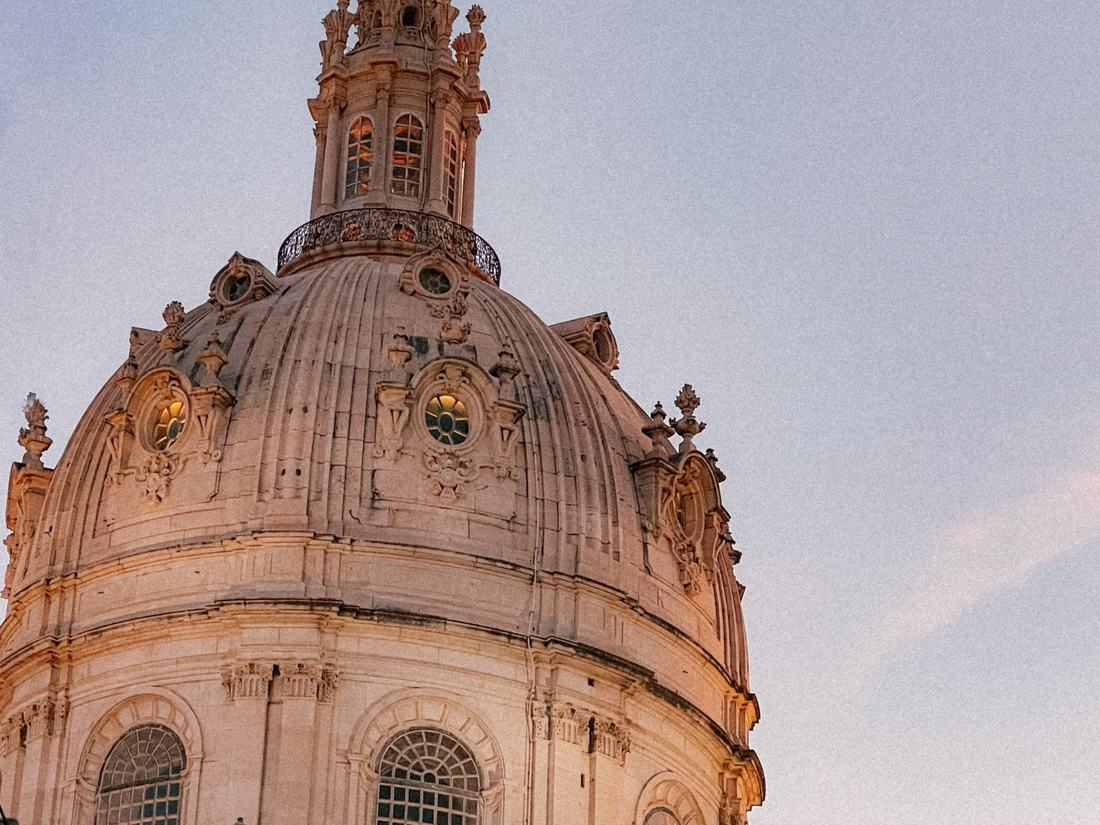
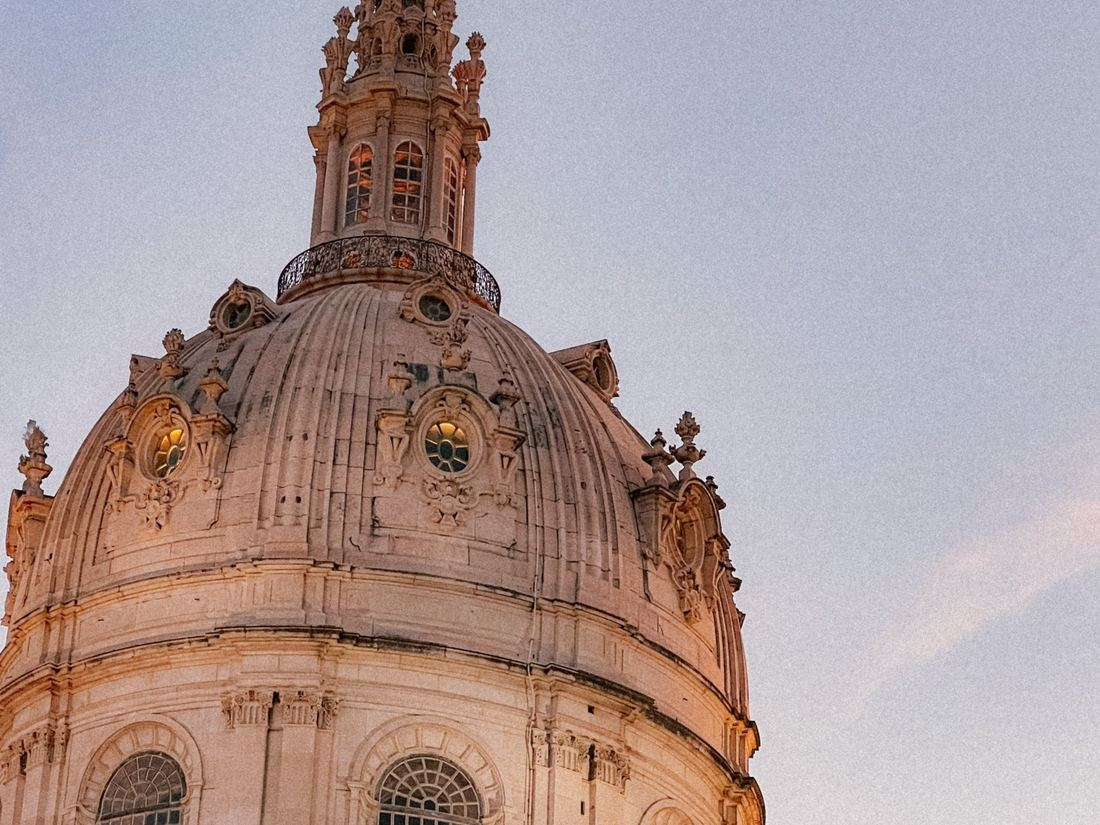
Carrossel mais largo no telemóvel, Estrela com a cúpula inteira, sem a foto da pastelaria da Baixa
Claude-Session: https://claude.ai/code/session_01CRosGaBkv9akxpJw5V7gCD

diff --git a/index.html b/index.html
@@ -935,9 +935,10 @@
     .planner-card { padding: 22px; }
     .book-layout { grid-template-columns: minmax(0, 1fr); grid-template-areas: "tour" "route" "side" "fields"; grid-template-rows: auto; }
     .bk-side { border-top: 0; padding: 0 2px 6px; }
-    .bk-route { padding: 10px; }
+    .bk-route { padding: 0; border: 0; background: transparent; }
+    .route-gallery .rg-slide, .rg-track { border-radius: 10px; }
     .book { padding: 56px 20px; }
-    .book-card { padding: 22px; }
+    .book-card { padding: 18px 14px; }
     .book-grid { grid-template-columns: 1fr; }
     .book-submit { width: 100%; }
     .nums { padding: 56px 20px 16px; }
@@ -2473,7 +2474,7 @@
   var currentMapRoute = SEASON ? "t5" : "t3";
 
   /* Fotos dos pontos (img/p/<chave>-640.jpg e -1100.jpg). O tour de Natal usa as versões com luzes. */
-  var PLACE_PHOTOS = ["jeronimos", "rossio", "comercio", "se", "castelo", "santaluzia", "alfama", "graca", "avenida", "marques", "carmo", "torre", "padrao", "maat", "belem", "estrela", "martimmoniz", "mouraria"];
+  var PLACE_PHOTOS = ["jeronimos", "rossio", "comercio", "se", "castelo", "santaluzia", "alfama", "graca", "avenida", "marques", "carmo", "torre", "padrao", "maat", "estrela", "martimmoniz", "mouraria"];
   var PHOTO_OVERRIDES = { t5: { avenida: "avenida-natal", rossio: "rossio-natal", comercio: "comercio-natal" } };
   var galleryRoute = null;
 
